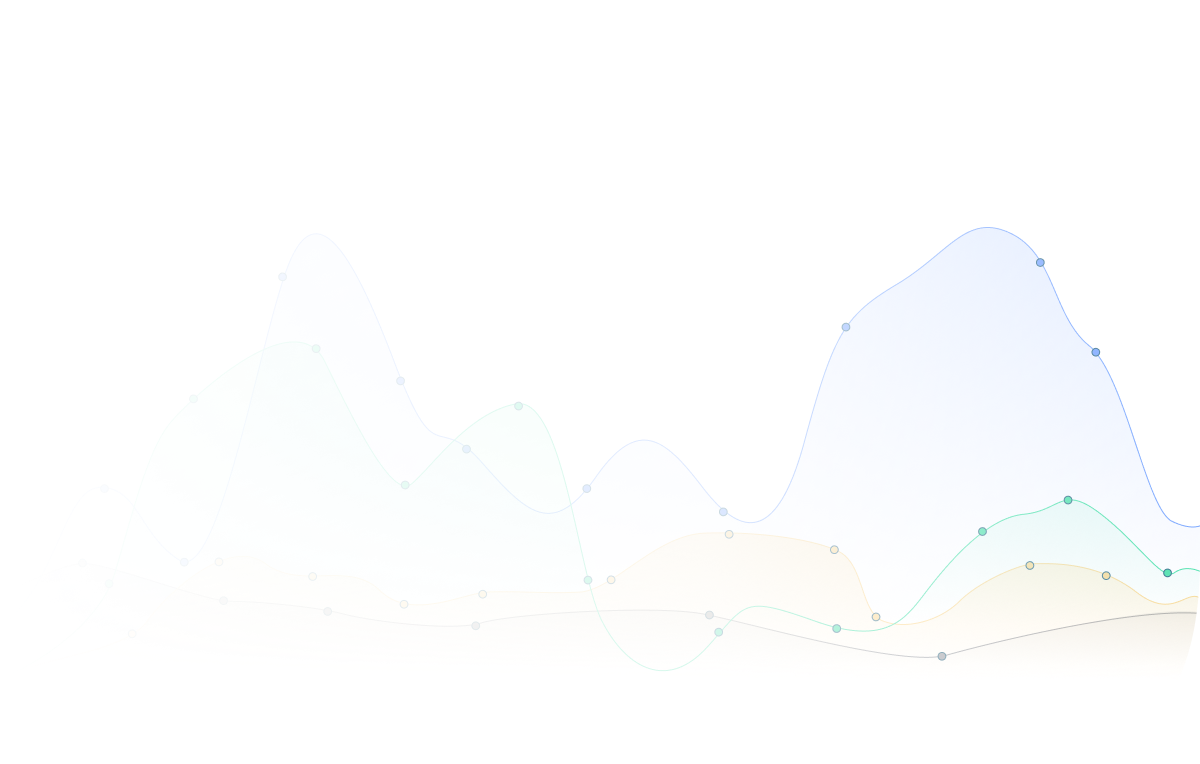
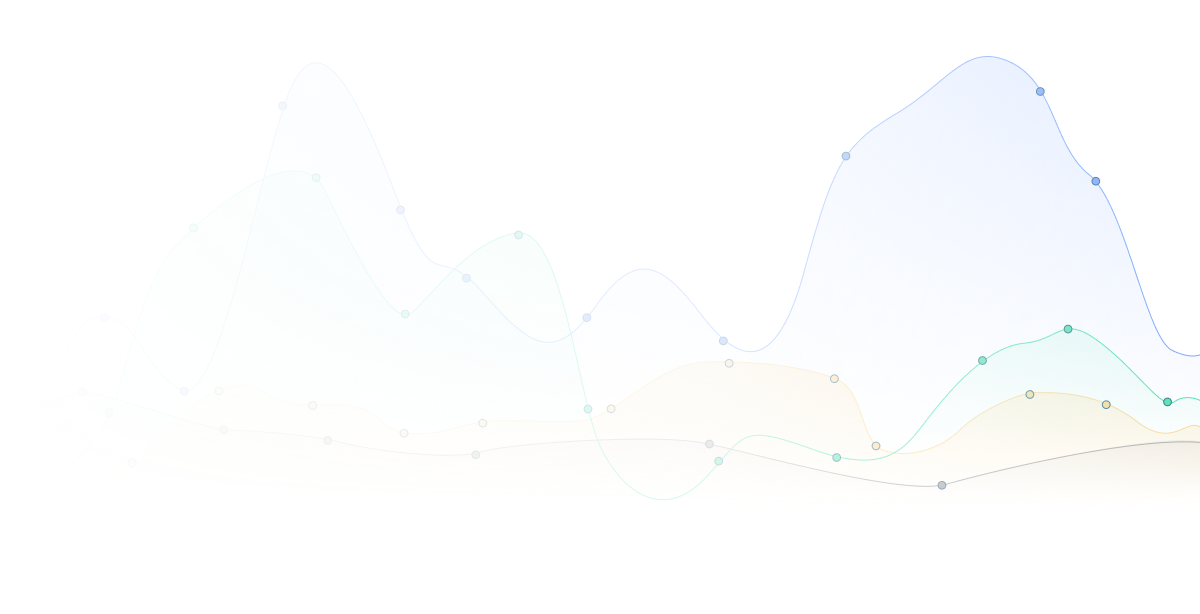
Commiting here to revert to if we want a box on the map

diff --git a/components/Metrics/Hero/index.tsx b/components/Metrics/Hero/index.tsx
@@ -2,88 +2,100 @@ import * as React from "react";
 import styled from "@emotion/styled";
 import chroma from "chroma-js";
 import Button from "../../../components/Button";
-import { breakpoints, colors } from "../../../design-system";
+import { breakpoints, colors, shadows } from "../../../design-system";
 import { Step } from "../../../utils/Scale";
 import Wrapper from "../../../components/Wrapper";
 
 const Container = styled.section({
-  background: `${colors.coldWater} url(/static/images/report-hero@2x.jpg)`,
+  // background: `${colors.coldWater} url(/static/images/report-hero@2x.jpg)`,
   backgroundSize: "cover",
   backgroundPosition: "bottom",
-  paddingTop: "7rem",
-  paddingBottom: "7rem",
-  minHeight: 450,
-  transform: "translateY(-7rem)",
+  paddingTop: "4rem",
+  paddingBottom: "4rem",
+  minHeight: 800,
   display: "flex",
   justifyContent: "center",
   alignItems: "center",
 });
+
 const Title = styled.h1({
-  color: colors.white,
-  fontSize: Step(4.5),
+  color: colors.black,
+  fontSize: Step(5),
   [breakpoints.ns]: {
-    fontSize: Step(5.45),
+    fontSize: Step(5.65),
   },
-  lineHeight: 1.35,
 });
-const Subtitle = styled.h2({
-  color: colors.greyLightest,
+
+const Subtitle = styled.h1({
+  marginBottom: Step(5.5),
+  color: colors.greyLight,
   fontWeight: 500,
-  opacity: 0.6,
-  lineHeight: 1.5,
-  maxWidth: 675,
-  marginBottom: "4rem",
-  fontSize: Step(4.5),
+  fontSize: Step(4.125),
   [breakpoints.ns]: {
-    fontSize: Step(4.5),
+    fontSize: Step(5),
   },
+});
+
+const Box = styled.div({
+  maxWidth: "40rem",
+  padding: "2rem",
+  margin: "0 auto",
+  background: "rgba(255, 255, 255, 0.4)",
+  boxShadow: shadows.card,
+  borderRadius: Step(3),
+  overflow: "hidden",
+  position: "relative",
 });
 
 const Img = styled.img({
   // mixBlendMode: "multiply",
-  zIndex: 1,
   position: "absolute",
-  objectFit: "contain",
-  width: "100%",
-  bottom: 0,
-  left: 0,
+  objectFit: "cover",
+  width: "200%",
+  top: 0,
+  maxWidth: "200%",
+  right: -400,
+  zIndex: 0,
+  pointerEvents: "none",
 });
 
 interface Props {}
 const ReportHero: React.FC<Props> = () => {
   return (
     <Container style={{ position: "relative" }}>
-      <Img
-        src={`/static/images/charts-small.png`}
-        srcSet={`/static/images/charts-small.png, /static/images/charts-small@2x.png 2x`}
-        alt={"Charts Graphic"}
-      />
       <Wrapper className="pb5" style={{ zIndex: 2, position: "relative" }}>
-        <Title className="measure">
-          Venezuelan Ambassador Program
-          <br />
-          Real Time Data
-        </Title>
-        <Subtitle className="measure">
-          We are sharing the live results of our randomized controlled trial
-          that compares the benefits of giving cash and crypto.
-        </Subtitle>
-        <Button
-          className="mr3 button-donate"
-          css={{
-            background: colors.blue,
-            borderColor: colors.blue,
-            "&:hover, :active": {
-              background: chroma(colors.blue)
-                .brighten(0.25)
-                .css(),
-            },
-          }}
-          href={"/reports/venezuelan-ambassador-program"}
-          scheme="light"
-        >
-          View Data
-        </Button>
+        <Box>
+          <Img
+            src={`/static/images/charts-small.png`}
+            srcSet={`/static/images/charts-small.png, /static/images/charts-small@2x.png 2x`}
+            alt={"Charts Graphic"}
+          />
+          <Title className="measure">
+            Venezuelan Ambassador
+            <br />
+            Program Real Time Data
+          </Title>
+          <Subtitle className="lh-copy measure-narrow">
+            We are sharing the live results of our randomized controlled trial
+            that compares the benefits of giving cash and crypto.
+          </Subtitle>
+          <Button
+            className="mr3 button-donate"
+            css={{
+              background: colors.blue,
+              borderColor: colors.blue,
+              "&:hover, :active": {
+                background: chroma(colors.blue)
+                  .brighten(0.25)
+                  .css(),
+              },
+            }}
+            href={"/reports/venezuelan-ambassador-program"}
+            scheme="light"
+          >
+            View Data
+          </Button>
+        </Box>
       </Wrapper>
     </Container>
   );

diff --git a/components/Navigation/Navigation.tsx b/components/Navigation/Navigation.tsx
@@ -9,7 +9,7 @@ import { Link as ScrollLink } from "react-scroll";
 import animationData from "../../animations/menu--grey-white.json";
 import Button from "../../components/Button";
 import Link, { linkStyles } from "../../components/Link";
-import { breakpoints, colors } from "../../design-system";
+import { breakpoints, colors, shadows } from "../../design-system";
 import Logo from "../../svgs/GiveCrypto.svg";
 import { Step } from "../../utils/Scale";
 import Links from "./Links";
@@ -30,32 +30,27 @@ const Container = styled.div(({ currentRoute }: any) =>
     ? {
         "& svg path": {
           transition: "color none",
-          fill: colors.white,
-        },
-        "& a, span": {
-          color: colors.white,
+          fill: colors.coldWater,
         },
         "& .headroom": {
-          transition: "background 200ms ease",
-          background: "rgba(255, 255, 255 0)",
+          transition: "all 200ms ease",
+          background: "rgba(255, 255, 255, 0)",
+          boxShadow: shadows.none,
         },
         "& .headroom--pinned.headroom--scrolled": {
           background: colors.white,
-          "& svg path": {
-            transition: "color none",
-            fill: colors.coldWater,
-          },
-          "& a, span": {
-            color: colors.coldWater,
-          },
-          "& span a span": {
-            color: colors.white,
-          },
+          boxShadow: shadows.default,
         },
       }
     : {
+        "& .headroom": {
+          transition: "all 200ms ease",
+          background: "rgba(255, 255, 255, 0)",
+          boxShadow: shadows.none,
+        },
         "& .headroom--pinned.headroom--scrolled": {
           background: colors.white,
+          boxShadow: shadows.card,
         },
       },
 );

diff --git a/pages/index.tsx b/pages/index.tsx
@@ -75,8 +75,6 @@ export default class App extends React.Component<{}, {}> {
         </Head>
         <HeadMeta path="/home" description={seo.description} />
 
-        <ReportHero />
-
         <Container>
           {/* <Wrapper>
             <Hooks />
@@ -91,6 +89,8 @@ export default class App extends React.Component<{}, {}> {
             <Hero page="home" />
             <Div display="block" className="mb3 mb6-ns" />
           </Wrapper>
+
+          <ReportHero />
 
           <Wrapper narrow={true}>
             <HowItWorks />
